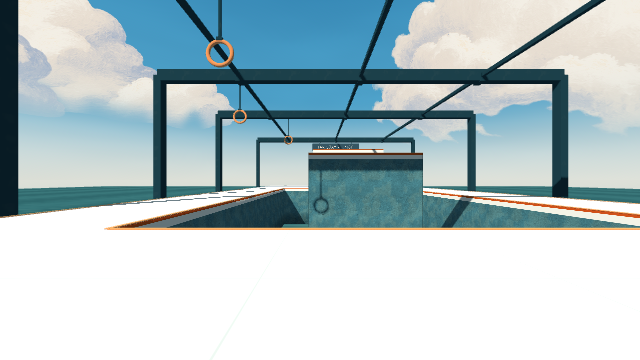
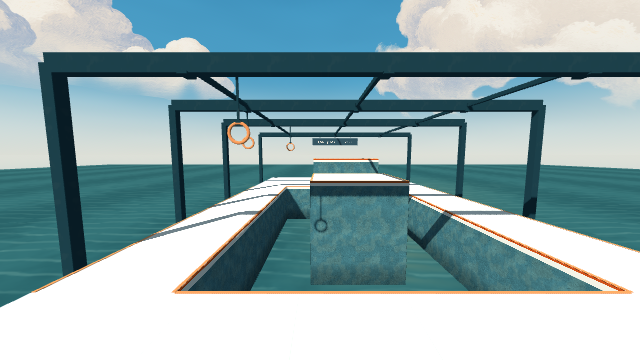
fix: plan yard preview looks over the pit instead of at blank deck (ccChat-general-jwhj.4)

diff --git a/scripts/ui/map_previews/PROVENANCE.md b/scripts/ui/map_previews/PROVENANCE.md
@@ -11,3 +11,5 @@ The initial map/art/shader/assets baseline is integration `0197ff2`; these paths
 ## Refresh, 21 Nov 2026
 
 All 20 frames were recaptured from the integrated design state `4ab6cb6` (every map lane's latest look at 18:29, except lane 08's Viaduct dam base, which was still merging). The capture used the same manifest poses, the pinned Godot engine through `tools/shot.py`'s wrapper on its private display, a 640x360 root viewport read back directly with the HUD hidden, and reported a clean source status. `manifest.json` carries the new image hashes and `4ab6cb6` as source commit. Receipts (capture and display records, the capture harness and a contact sheet) are kept outside Git under `/home/thatmike1/spillway-design-1121/frames/04-menus/preview-receipts-1121-final/`; an earlier pass from `c0c485e` is under `preview-receipts-1121/`.
+
+Plan Yard was recaptured afterwards from a raised pose (4.0 m higher, 3.0 m back, pitched 6° down) so the preview shows the pit, gantries and rings instead of blank deck at the player's feet. Same engine, wrapper, size and clean source status, from `e71831e` (map content identical to `4ab6cb6` for Plan Yard). Receipts: `/home/thatmike1/spillway-design-1121/frames/04-menus/preview-receipts-1121-plan-yard/`.
